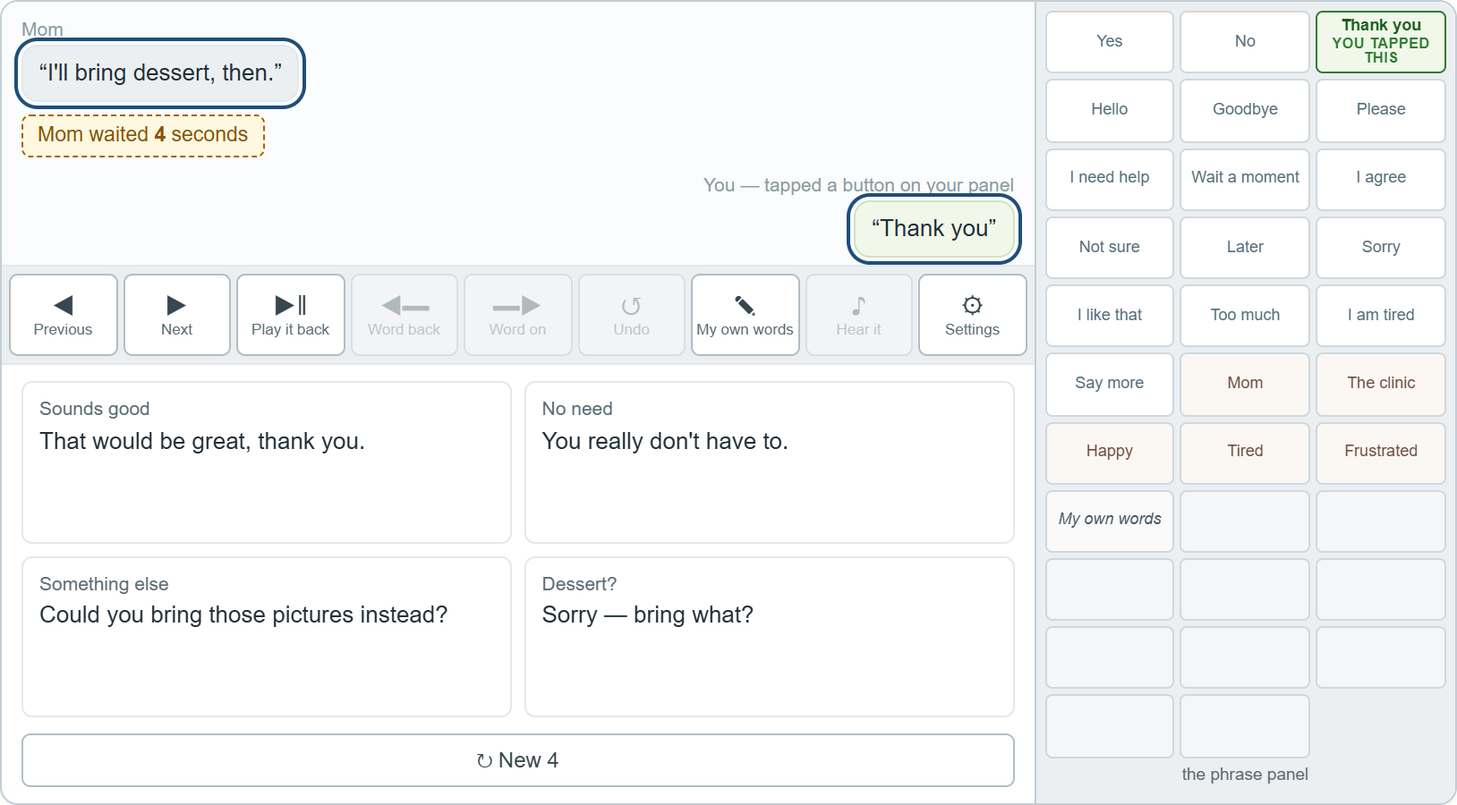
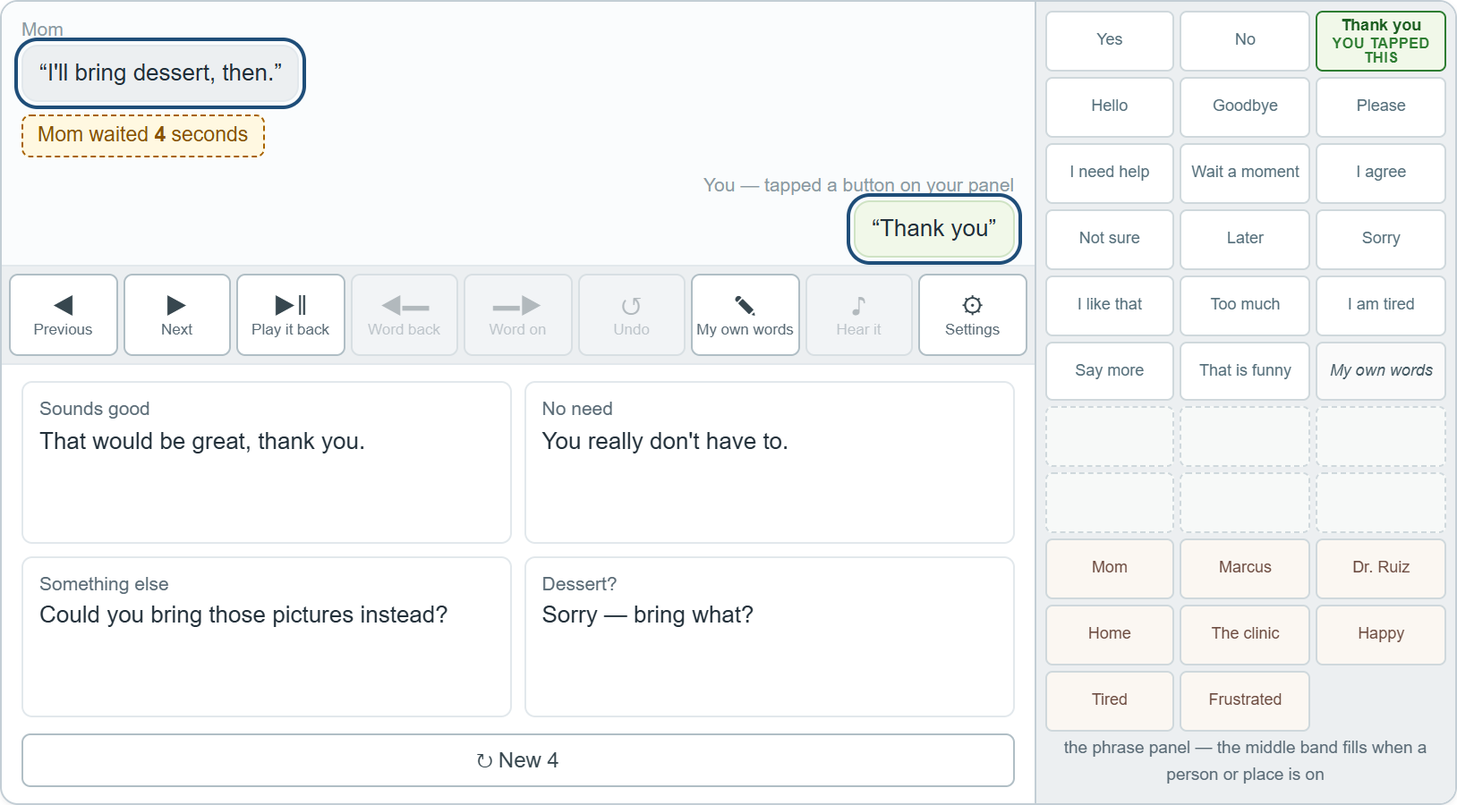
A context button can be half of an answer, not a mark of its own
I had written that marking "Tired" or "Mom" says only what the app should have
known, never what the user would have said. Ken: not if they then choose a
phrase or a sound from the Flex band after tapping it.

He is right, and it is not an extra case - it corrects the framing. The middle
band of the panel is EMPTY until a person or a place is switched on, and what
fills it is a function of which one. So marking "Mom" and then taking a phrase
out of that band is one answer in two steps: the phrase is on the panel only
because Mom is on. Recording the two as separate marks loses the thing that
connects them, and recording the phrase alone names a button that is not
normally there.

The prototype's panel now has the three real bands - Always, Flex, Context -
with the Flex band filled from the switched-on person and place, most specific
first, and its slots reserved so that switching one on cannot move a button. A
Flex answer stores what it depended on; switching that person or place back off
clears the answer rather than leaving it pointing at a vanished button. Recorded
sounds live in that band like any other entry and behave the same way.

An influencer mark on its own still means what it did.

Verified by driving it: six empty Flex slots at rest, four fill when Mom goes on
including the sound, the answer records both halves, switching Mom off clears it,
and all thirty-two cells are the same size throughout.
[…]

diff --git a/prototypes/conversation-review.html b/prototypes/conversation-review.html
@@ -254,6 +254,10 @@
   /* the influencer buttons read as a different kind of thing in the app, and must here */
   .dcell.ep-context{background:#FBF7F2;color:#6d4c41}
   .dcell.ep-compose{background:#FAFAFA;color:#455A64;font-style:italic}
+  .dcell.ep-flex{background:#F2F7F4;color:#2f5d46}
+  .dcell.ep-flex.empty-flex{background:#F7F9F8;border-style:dashed;color:#B0BEC5}
+  .dcell.ep-audio{font-style:italic}
+  .dcell.ep-audio::before{content:'♪ '}
   .dcell.ctx{background:#FFF3E0;border-color:var(--warn);color:#6b3d00;font-weight:bold;
              flex-direction:column;gap:1px}
   .ctxmk{font-size:7.5px;font-weight:bold;color:var(--warn);text-transform:uppercase;
@@ -874,32 +878,53 @@ function barHTML(st){
 
 /* The dock. The same three-column grid whichever is showing, which is the whole
    reason one keyguard covers both. */
-/* The panel holds three kinds of thing and they answer three different questions in
-   review, so the mock has to distinguish them rather than treating every cell as a
-   phrase (Ken, September 24 2026 - the panel has to be fully usable here).
-     phrase  - "I would rather have said this"
-     context - "I should have told it this first" (who I was with, where, how I felt).
-               These never speak, so several can be marked at once, and they are a
-               different answer from what the user would have SAID.
-     compose - "I would have typed it myself", the same as the command-strip button. */
-var EP_ITEMS = [
-  {t:'phrase', x:'Yes'},      {t:'phrase', x:'No'},        {t:'phrase', x:'Thank you'},
-  {t:'phrase', x:'Hello'},    {t:'phrase', x:'Goodbye'},   {t:'phrase', x:'Please'},
-  {t:'phrase', x:'I need help'}, {t:'phrase', x:'Wait a moment'}, {t:'phrase', x:'I agree'},
-  {t:'phrase', x:'Not sure'}, {t:'phrase', x:'Later'},     {t:'phrase', x:'Sorry'},
-  {t:'phrase', x:'I like that'}, {t:'phrase', x:'Too much'}, {t:'phrase', x:'I am tired'},
-  {t:'phrase', x:'Say more'},
-  {t:'context', k:'partner', x:'Mom'}, {t:'context', k:'place', x:'The clinic'},
-  {t:'context', k:'feeling', x:'Happy'}, {t:'context', k:'feeling', x:'Tired'},
-  {t:'context', k:'feeling', x:'Frustrated'},
-  {t:'compose', x:'My own words'}
+/* ---------------------------------------------------------------------------
+   THE PANEL HAS THREE BANDS, AND THE MIDDLE ONE IS A FUNCTION OF THE OTHERS.
+
+   ALWAYS  - never changes.
+   FLEX    - the phrases and sounds that suit this partner and this place. It is
+             EMPTY until a partner or a place is switched on, and its contents
+             change with them.
+   CONTEXT - the buttons that never speak: who I am with, where I am, how I feel.
+
+   ⚠ WHY THIS MATTERS IN REVIEW (Ken, September 24 2026). Marking a context
+   button was described as saying only "the app should have known this". That is
+   wrong whenever the user then takes a phrase or a sound out of the Flex band,
+   because THAT PHRASE ONLY EXISTS BECAUSE THE CONTEXT BUTTON IS ON. The two are
+   one answer in two steps - "I would have said I was with Mom, and then tapped
+   this" - and reporting them as separate marks loses the thing that connects
+   them. So a Flex answer records what had to be switched on to reach it.
+   --------------------------------------------------------------------------- */
+var EP_ALWAYS = ['Yes','No','Thank you','Hello','Goodbye','Please','I need help',
+                 'Wait a moment','I agree','Not sure','Later','Sorry','I like that',
+                 'Too much','I am tired','Say more','That is funny'];
+var EP_COMPOSE = 'My own words';
+var EP_CONTEXT = [
+  {k:'partner', x:'Mom'}, {k:'partner', x:'Marcus'}, {k:'partner', x:'Dr. Ruiz'},
+  {k:'place',   x:'Home'}, {k:'place',  x:'The clinic'},
+  {k:'feeling', x:'Happy'}, {k:'feeling', x:'Tired'}, {k:'feeling', x:'Frustrated'}
 ];
-/* `lit` is the phrase button a turn was spoken from. A user turn records where it came
-   from - a card, a panel button, the typing box, one of the command phrases - and if it
-   came from the panel there is NO card to mark, so the four on screen are the suggestions
-   that were ignored. Lighting the button is the only way to show what actually happened,
-   and it is the reason the panel is worth drawing in review at all. It is a mark, not a
-   control: tapping a phrase speaks it, and nothing in review may speak by accident. */
+/* what the Flex band fills with, most specific first, exactly as the app does */
+var EP_FLEX = {
+  'Mom':        [{x:'Say hi to Dad'}, {x:"My back's bad today"}, {x:'Love you'},
+                 {x:'our song', audio:true}],
+  'Marcus':     [{x:'Same time next week?'}, {x:'Your round'}],
+  'Dr. Ruiz':   [{x:"It's my back again"}, {x:'Can you write that down?'}],
+  'Home':       [{x:"I'll be in my room"}],
+  'The clinic': [{x:'Can you write that down?'}, {x:'I need to sit down'}]
+};
+var FLEX_SLOTS = 6;
+
+function flexFor(on){
+  var out = [], seen = {};
+  (on || []).forEach(function(label){
+    (EP_FLEX[label] || []).forEach(function(it){
+      if(!seen[it.x]){ seen[it.x] = 1; out.push(it); }
+    });
+  });
+  return out.slice(0, FLEX_SLOTS);
+}
+
 function dockHTML(kb, lit, want, live){
   var h = '<div class="dgrid">';
   if(kb){
@@ -908,28 +933,55 @@ function dockHTML(kb, lit, want, live){
     keys.forEach(function(k){
       h += '<div class="dcell key">' + esc(k === 'space' ? '␣' : k) + '</div>';
     });
-  } else {
-    for(var i=0;i<32;i++){
-      var it = EP_ITEMS[i];
-      if(!it){ h += '<div class="dcell dim"></div>'; continue; }
-      var t = it.x;
-      var used = !!(lit && t === lit);
-      var pref = !!(want && want.pick === t);
-      var ctx  = !!(want && want.ctx && want.ctx.indexOf(t) >= 0);
-      var tip  = it.t === 'context' ? 'tap if the app should have known this'
-               : it.t === 'compose' ? 'tap if you would rather have typed it yourself'
-                                    : 'tap if you would rather have said this';
-      h += '<div class="dcell ep-' + it.t + (used ? ' used' : '') + (pref ? ' want' : '')
-         + (ctx ? ' ctx' : '') + '"'
-         + (live ? ' data-cell="' + esc(t) + '" data-kind="' + it.t + '" title="' + tip + '"' : '')
-         + '>' + esc(t)
+    h += '</div><div class="dlab">the keyboard</div>';
+    return h;
+  }
+
+  want = want || {};
+  var on   = want.ctx || [];
+  var flex = flexFor(on);
+
+  function cell(t, kind, cls, extra){
+    var used = !!(lit && t === lit);
+    var pref = !!(want.pick === t);
+    var mark = !!(kind === 'context' && on.indexOf(t) >= 0);
+    return '<div class="dcell ' + cls + (used ? ' used' : '') + (pref ? ' want' : '')
+         + (mark ? ' ctx' : '') + '"'
+         + (live && t ? ' data-cell="' + esc(t) + '" data-kind="' + kind + '"'
+                      + ' title="' + esc(extra || '') + '"' : '')
+         + '>' + esc(t || '')
          + (used ? '<span class="usedmk">you tapped this</span>' : '')
          + (pref ? '<span class="wantmk">rather this</span>' : '')
-         + (ctx  ? '<span class="ctxmk">should have known</span>' : '')
+         + (mark ? '<span class="ctxmk">would have been on</span>' : '')
          + '</div>';
-    }
   }
-  h += '</div><div class="dlab">' + (kb ? 'the keyboard' : 'the phrase panel') + '</div>';
+
+  EP_ALWAYS.forEach(function(t){
+    h += cell(t, 'phrase', 'ep-always', 'tap if you would rather have said this');
+  });
+  h += cell(EP_COMPOSE, 'compose', 'ep-compose', 'tap if you would rather have typed it yourself');
+
+  /* THE FLEX BAND KEEPS ITS SLOTS WHETHER OR NOT ANYTHING FILLS THEM. It is empty
+     until a partner or a place is switched on - which is the point being shown - but
+     the cells have to stay where they are, or switching one on would move every
+     button below it. */
+  for(var f = 0; f < FLEX_SLOTS; f++){
+    var it = flex[f];
+    if(!it){ h += '<div class="dcell ep-flex empty-flex"></div>'; continue; }
+    h += cell(it.x, it.audio ? 'audio' : 'flexphrase', 'ep-flex' + (it.audio ? ' ep-audio' : ''),
+              it.audio ? 'tap if you would rather have played this'
+                       : 'tap if you would rather have said this');
+  }
+
+  EP_CONTEXT.forEach(function(c){
+    h += cell(c.x, 'context', 'ep-context', 'tap if you would have had this switched on');
+  });
+
+  h += '</div>'
+     + '<div class="dlab">the phrase panel'
+     + (on.length ? ' — the middle band is what &ldquo;' + esc(on.join('&rdquo; and &ldquo;'))
+                    + '&rdquo; puts there' : ' — the middle band fills when a person or place is on')
+     + '</div>';
   return h;
 }
 
@@ -1447,7 +1499,8 @@ function renderMoment(){
      several can be marked at once - exactly as several can be switched on in a real
      conversation. */
   function clearAnswer(){
-    V.preferPhrase = undefined; V.closer = -1; V.own = false; V.wantMore = false;
+    V.preferPhrase = undefined; V.preferAudio = undefined; V.preferNeeded = undefined;
+    V.closer = -1; V.own = false; V.wantMore = false;
     V.text = undefined; V.seed = undefined; ed = null;
   }
 
@@ -1459,12 +1512,27 @@ function renderMoment(){
         V.context = V.context || [];
         var at = V.context.indexOf(t);
         if(at >= 0) V.context.splice(at, 1); else V.context.push(t);
+        /* switching one off can empty the band the chosen phrase came out of, and an
+           answer pointing at a button that is no longer there means nothing */
+        if(V.preferNeeded){
+          var still = flexFor(V.context).some(function(it){ return it.x === V.preferPhrase; });
+          if(!still){ V.preferPhrase = undefined; V.preferAudio = undefined;
+                      V.preferNeeded = undefined; V.j = undefined; }
+        }
       } else if(kind === 'compose'){
         clearAnswer(); V.own = true; V.j = 'none'; V.text = ''; startEdit('card', -1, '');
       } else if(V.preferPhrase === t){
         clearAnswer(); V.j = undefined;
       } else {
-        clearAnswer(); V.preferPhrase = t; V.j = 'phrase';
+        var needed = (kind === 'flexphrase' || kind === 'audio') ? (V.context || []).slice() : null;
+        clearAnswer();
+        V.preferPhrase = t;
+        V.preferAudio = (kind === 'audio') || undefined;
+        /* WHAT HAD TO BE SWITCHED ON TO REACH IT. A Flex phrase only exists because a
+           person or a place is on, so the answer is the pair - recording the phrase
+           alone would name a button that is not on the panel by default. */
+        V.preferNeeded = (needed && needed.length) ? needed : undefined;
+        V.j = 'phrase';
       }
       saveVerdicts(); renderMoment();
     };
@@ -1520,12 +1588,21 @@ function renderMoment(){
           + '— it means none of these were close and you could not say what was missing. Nothing '
           + 'was generated: review marks what you would have done, it does not do it.</p>';
   }
-  if(V.context && V.context.length){
-    hint += '<p style="color:var(--warn)"><b>Noted:</b> the app should have known '
-          + esc(V.context.join(', ')) + '. That is about what it knew rather than what you would '
-          + 'have said, so it stands alongside whichever answer you gave.</p>';
+  if(V.context && V.context.length && !V.preferNeeded){
+    hint += '<p style="color:var(--warn)"><b>Noted:</b> you would have had '
+          + esc(V.context.join(', ')) + ' switched on. On its own that is about what the app '
+          + 'knew rather than what you would have said, so it stands alongside whichever answer '
+          + 'you gave.</p>';
   }
-  if(V.preferPhrase){
+  if(V.preferNeeded){
+    hint += '<p style="color:var(--init)"><b>Noted, and it is one answer in two steps:</b> you '
+          + 'would have switched on ' + esc(V.preferNeeded.join(' and ')) + ', and then '
+          + (V.preferAudio ? 'played “' : 'tapped “') + esc(V.preferPhrase) + '”. That '
+          + (V.preferAudio ? 'sound' : 'phrase') + ' is only on the panel because '
+          + esc(V.preferNeeded.join(' and ')) + ' is on, so the two are recorded together — the '
+          + 'phrase on its own would name a button that is not normally there.</p>';
+  }
+  if(V.preferPhrase && !V.preferNeeded){
     hint += '<p style="color:var(--init)"><b>Noted:</b> you would rather have tapped “'
           + esc(V.preferPhrase) + '”, a phrase you already have. That is worth knowing on its '
           + 'own — it says the suggestions crowded out something the user owns, and it tells the '
@@ -1661,11 +1738,13 @@ function gather(){
         bits.push(how + ': "' + v.text.trim() + '"');
       }
       if(v.preferPhrase){
-        bits.push('would rather have tapped the panel button "' + v.preferPhrase + '"');
+        bits.push('would rather have ' + (v.preferAudio ? 'played' : 'tapped') + ' the panel button "'
+          + v.preferPhrase + '"'
+          + (v.preferNeeded ? ' (which needs ' + v.preferNeeded.join(' and ') + ' switched on)' : ''));
       }
       if(v.wantMore) bits.push('would have asked for a different set of suggestions');
-      if(v.context && v.context.length){
-        bits.push('says the app should have known: ' + v.context.join(', '));
+      if(v.context && v.context.length && !v.preferNeeded){
+        bits.push('would have had these switched on: ' + v.context.join(', '));
       }
       if(v.misheard){
         bits.push('flagged a mishearing'

diff --git a/scripts/doc-generators/generate-review-doc.js b/scripts/doc-generators/generate-review-doc.js
@@ -273,10 +273,13 @@ const doc = new Document({
             ...figure('rv-fig3.png', 814, 450, "Figure 3 — A turn spoken from the user's own phrase panel. No card is marked, because none was used; the button they tapped is lit instead."),
             boldPara("That is the reason the phrase panel is worth drawing in review at all. ", "It is not there to make the screen look like the app. It is the only place that can show a turn that came from it — and it is also where one of the outcomes of review lands, since “put this phrase on my buttons” ends up there. It is a mark and not a control: tapping a phrase speaks it, and nothing in review may speak by accident."),
             boldPara("And the panel is fully usable here, not only a record (Ken, September 24 2026). ", "Tapping a phrase says “I would rather have said this” — the same answer as rewriting a card, at no typing cost at all, which makes it the cheapest useful thing on the screen. It is worth more than it looks: repeated across moments it says the suggestions are crowding out wording the user already owns, and it hands the AI a phrase it should be leaving room for. The panel's “in my own words” cell does what the command-strip button does."),
-            boldPara("The influencer buttons answer a different question, so they behave differently. ", "Marking “Tired” or “Mom” says what the app should have KNOWN, not what the user would have SAID. So several can be marked at once and they stand alongside whichever answer was given — exactly as several can be switched on during a real conversation."),
+            boldPara("The influencer buttons usually answer a different question. ", "Marking “Tired” or “Mom” normally says what the user would have had SWITCHED ON, which is about what the app knew rather than about what they would have said. So several can be marked at once and they stand alongside whichever answer was given — exactly as several can be switched on during a real conversation."),
+            boldPara("⚠ But not always, and the exception matters (Ken, September 24 2026). ", "The panel has three bands, and the middle one — the phrases and sounds that suit this partner and this place — is EMPTY until a person or a place is switched on. So if the user marks “Mom” and then takes a phrase out of that band, the two are not separate marks at all: the phrase is only on the panel BECAUSE Mom is on. It is one answer in two steps, and recording the phrase by itself would name a button that is not normally there."),
+            ...figure('rv-fig4.png', 814, 450, "Figure 4 — One answer in two steps. “Mom” switched on fills the middle band, and the phrase taken from it is recorded together with what had to be on to reach it."),
+            boldPara("So a phrase from that band is stored with what it depended on, ", "and switching that person or place back off clears the answer rather than leaving it pointing at a button that is no longer on the panel. The same holds for a recorded sound, which lives in that band like any other entry."),
             boldPara("“New 4” marks and does not generate (Ken, September 24 2026). ", "Pressing it in review says “I would have asked for a different set”, which is a real answer and a different one from naming something they would rather have said: it means none of the four were close and they could not name what was missing. Actually producing four new suggestions would spend money, invent a set that never existed, and leave the record showing something the conversation never contained."),
             ...figure('rv-fig4.png', 814, 450, "Figure 4 — The other ways of answering. “New 4” marked as what the user would have asked for, and an influencer marked as something the app should have known."),
-            boldPara("So there are five ways to say what they would have done instead, and exactly one may be chosen: ", "a card, a phrase from their panel, the typing box, “New 4”, or nothing at all. They answer the same question, so choosing one clears the others — otherwise a moment carries two contradictory answers and neither means anything. The influencer marks are not one of the five and sit alongside any of them."),
+            boldPara("So there are five ways to say what they would have done instead, and exactly one may be chosen: ", "a card, a phrase or sound from their panel, the typing box, “New 4”, or nothing at all. They answer the same question, so choosing one clears the others — otherwise a moment carries two contradictory answers and neither means anything. An influencer mark is not one of the five: on its own it stands alongside any of them, and where it unlocked the phrase that was chosen it is part of that answer rather than a mark of its own."),
             boldPara("⚠ Undo is a real undo, and the name is the reason (Ken, September 24 2026: if it is undo, call it undo). ", "It was called “put it back” and cleared everything said about the moment, which is fine after changing one word on a card and destructive after writing a sentence — one press and the sentence was gone. It now steps back one action at a time, so pressing it repeatedly still reaches an untouched moment and no single press can lose more than the last thing done. A snapshot is taken before each discrete action and once when an edit begins, never on every keystroke: undo has to step back a word, not a letter, or it stops being usable alongside the two word buttons."),
             boldPara("⚠ A mark on a button may not move the buttons. ", "The panel is a fixed grid, and it stays one here: the first attempt let the row holding the marked button grow to fit its label, which pushed every button below it down by seventeen pixels. That is a keyguard hole moving because a conversation was being looked at. Measured after the fix: all thirty-two cells are the same size whether a button is marked or not."),
             boldPara("⚠ This replaces the three-way question the earlier draft of this document described. ", "That draft asked “was any of these right?” with three buttons — yes, closest, none — and then offered a writing box. The buttons are gone, and nothing was lost: what a tap means is read from what the user does next. Leave the card alone and it was right. Tap a different one and that one would have suited them better. Change the words and here is how they would have put it. Press “my own words” and none of them were any use. Walk past without touching anything and nothing is recorded, which is what keeps skipping a moment different from approving it."),

diff --git a/scripts/doc-generators/capture-review-figures.js b/scripts/doc-generators/capture-review-figures.js
@@ -51,11 +51,13 @@ const PROTO = path.resolve(__dirname, '..', '..', 'prototypes', 'conversation-re
         await page.evaluate(() => { ed = null; verdicts = {}; momentAt = 4; renderMoment(); });
     });
 
-    // 4  the other ways of saying what they would have done instead
+    // 4  one answer in two steps - switch a person on, then take a phrase that only
+    //    exists because they are on
     await shot(4, '#moment', async () => {
+        const tap = t => page.evaluate(x => { document.querySelector('#moment [data-cell="' + x + '"]').click(); }, t);
         await page.evaluate(() => { ed = null; verdicts = {}; undoStacks = {}; momentAt = 1; renderMoment(); });
-        await page.evaluate(() => { document.querySelector('#moment [data-new]').click(); });
-        await page.evaluate(() => { document.querySelector('#moment [data-cell="Tired"]').click(); });
+        await tap('Mom');
+        await tap("My back's bad today");
     });
 
     // 5  a card being rewritten in place, with one word highlighted and the keyboard up

diff --git a/DOC-SYNC.md b/DOC-SYNC.md
@@ -213,7 +213,7 @@ June 15 2026 convention requires. They are the only two documents missing it.
 | Conversant AAC Conversation Engine Design.docx | ✓ current | 2026-08-24 | `6d5249a` | **Synced Aug 24 2026 for 0.8.0 (the Express Panel bands).** The Express Panel choice-chip paragraph corrected to the far end of the Context band, with a standing reservation of four. *Prior:* Caught up to v0.5.93–v0.5.98. Added §4.1 "Closed-Set Turns" (offered_options, CHOICE/CHOICE_OTHER/CHOICE_ASK/CHOICE_REPAIR, Express Panel choice chips, steering persistence, renderer pure-family note) with a Figure 3a worked example; added §5.3 "Two-Step Closing, Pagination, and Declining a Closing" (WIND_DOWN vs CLOSING, no-LLM paging, CLOSING_DECLINE/reopenFromClosing); updated the mode table's PRE-CLOSING/CLOSING row; added offered_options to the §9.2 schema; added two §9.3 obligations bullets (offer-vs-mention, CLOSING definition); updated the Phasing and Traceability tables. **RESIDUAL:** no new figure for the CHOICE-card flow (no image toolchain on this box) — Figures 1–6 untouched. |
 | Conversant AAC Conversation Engine Overview.docx | ✓ current | 2026-09-08 | `0072923` | **Synced Sep 8 2026 for 0.10.7.** The slot table gained a Promise row: an option that asks for a moment rather than answering, offered only where the user certainly has the answer, marked so the sequence stays open, and never placed first - a constraint enforced in the engine because prompt wording could not hold it. |
 | Conversant AAC Conversation Goals.docx | ✓ current | 2026-09-10 | `82d8de8` | **Corrected Sep 10 2026 for 0.11.1.** Two items came off "Still Open". Saving the goals in force with each turn shipped in 0.11.1, and §8.5 now says so. The limit on how many Flex positions goals may take was never a gap: Ken, *"priority buttons push non-priority buttons off of the end of bands. The flex priorities are: goals, dimension-specific phrases, then Always phrases."* §8.5 now states that order. Folded into the generator in the same pass. *Prior:* **NEW Sep 10 2026.** Ken went looking for a document on conversational goals and found only a CLAUDE.md section plus Section 7 of "Reframe: Academic Foundations" - so this is that document, written the day the goal layer shipped. It states the premise (all conversation is goal-directed, short and long horizon), says how well it is supported and where it needs qualifying, describes the three layers and the three sources, and gathers in one place what the app deliberately does NOT do and why. **It SUPERSEDES Reframe §7 as the current account** - that section is still right about the two theories and out of date about what was built, and its central recommendation (organize the controls by primary versus secondary goals) was considered and rejected. Section 7 of the new document is the table of divergences from the literature. Every citation was checked against a source in the writing rather than recalled. |
-| Conversant AAC Conversation Review.docx | ✓ current | 2026-09-24 | `5c07194` | **FIVE ANSWERS, A LIVE PANEL, AND A REAL UNDO (Ken, Sep 24 2026).** (1) **The phrase panel is fully usable in review, not only a record** - tapping a phrase says “I would rather have said this”, which is the same answer as rewriting a card at no typing cost, and repeated across moments says the suggestions are crowding out wording the user already owns. Its “in my own words” cell does what the command-strip button does. (2) **The influencer buttons answer a different question** - marking “Tired” says what the app should have KNOWN, not what the user would have SAID - so several can be marked at once and they stand alongside whichever answer was given. (3) **“New 4” marks and does not generate** (Ken): it means none of the four were close and the user could not name what was missing. Generating would spend money, invent a set that never existed, and leave the record showing something the conversation never contained. **So there are five mutually exclusive answers** - card, panel phrase, typing box, New 4, nothing - because two contradictory answers on one moment mean neither. (4) **“Put it back” became “Undo” and is now one** (Ken: if it is undo, call it undo). It used to clear everything said about a moment, which is fine after changing a word and destructive after writing a sentence; it steps back one action at a time now, snapshotting before each discrete action and once when an edit begins - never per keystroke, or it could not step back a word. Figures renumbered to eight with a new Figure 4. *Prior:* **A turn does not always come from a card, and the screen now says which (Ken, Sep 24 2026, asking whether an Express Panel choice would be highlighted - it was not, and the record has carried `source` all along).** If somebody answered by tapping a phrase on their own panel, the four cards on screen are the ones they IGNORED, so marking none of them says nothing about what they did - and reads as a card selection nobody recorded. The line in the pane now names where the turn came from and the button is shown lit in the panel. **That is also the answer to why the phrase panel is drawn in review at all** (Ken asked): it is the only place a panel turn can be shown, and it is where “put this phrase on my buttons” lands. It is a mark, never a control - tapping a phrase speaks it. **⚠ The first attempt let the marked button's row grow to fit its label and pushed every button below it down 17px** - a keyguard hole moving because somebody looked at a conversation; the panel grid is now equal-rowed and all 32 cells measure the same marked or not. Sample conversation gained a seventh moment for it, new Figure 3, figures renumbered to seven. Also fixed: Figure 1 had been embedded at the wrong aspect ratio since the rebuild. *Prior:* **SECOND EDITION, Sep 24 2026 - it replaces the first and says so on page one.** Building the prototype and working through it with Ken moved four things, and each reversal is marked in the text rather than quietly rewritten. (1) **Review reuses the conversation screen** instead of having a layout of its own - new Section 6 - because a differently-arranged review screen would need a second keyguard nobody will cut and swap. Settings keeps its usual last position and is how you leave, exactly as it is how a practice session is left (Ken); there is no back button and no Done, since edits are kept as they are made. (2) **A card is rewritten in place** and the separate writing box is gone - the box was always a copy of the card, and this layout has nowhere to put one. The three-way question went with it: what a tap means is read from what the user does next. New 7.3 carries the editing model - one highlighted word IS the cursor, two command-strip buttons move it, backspace empties it and leaves the gap, so three words is three presses. The buttons cannot live on the keyboard: its rows start at the top of the panel so one keyguard covers it and the phrase buttons. (3) **Two of the three ways through turned out to be one screen** - the whole conversation sits in the pane with the current exchange outlined, so stepping and scrolling are the same thing and only playback is separate work. Section 8 rewritten, and Question 1 now asks whether playback is worth building. (4) **Rehearsals are reviewable and are marked in the list** - arguably the better case, since a scenario can be run again; Section 10 extended. Two differences: no microphone, so nothing can have been misheard; and a fact written there **is asked about rather than assumed** (Ken - “is that true about you, or did you make it up for the practice?”), which is better than my blanket rule of never offering it. Also new: telling the app it wrote down the wrong words is now the **second tap on the other person's own line** (one tap to arrive, a second to correct), which is what freed the ninth command-strip slot for Settings. **⚠ THE FIGURES ARE NOW CAPTURED FROM THE PROTOTYPE** (six of them) and the hand-drawn “Review Figures.html” is deleted - within a day of the prototype changing it was illustrating a design that no longer existed, which is the two-copies trap in a new place. Regenerating still needs the post-processing chain in the generator header and FORCE_DOC_WRITE=1. *Prior:* **Figures redrawn Sep 23 2026, same day.** Ken: the app does not support telephone calls, and the sample conversation read as one. Rebuilding it face to face exposed a worse fault it had been hiding: Mom offered to drive up to the user, while the document's flagship example of what the user would rather have said is "I'd rather you came here" - which is what she had just offered. She now asks the user to come to THEM, so the example is coherent. Prose unchanged; only the figures carried the scenario. *Prior:* **NEW Sep 23 2026.** The first of four steps Ken set out for the conversation-review feature: this document, then a UI prototype for the speech and language therapists to comment on, then an architecture and interface design document, then the build. **Nothing it describes is built**, and it says so on the first page. It carries the purpose (review is the only time the user can think about their communication with nobody waiting), what the record already holds, the way in through a Review tab in Settings, the moment screen, real-time playback, where what the user says ends up, the practice case, privacy, and seven open questions aimed at the therapists. Four figures from "Review Figures.html" via capture-review-figures.js. **Three positions of mine that Ken reversed are carried in the text with their reasoning, not quietly absorbed:** grading is per considered card and never per set (the four are different kinds of reply, so scoring all four rates cards nobody looked at); real-time playback is worth building because a silence cannot be felt by reading; and "the app must never grade the user" was too absolute - a remark about the exchange is legitimate and is offered in practice, a verdict on the person never is. Regenerating needs the post-processing chain in the generator header (drawing ids, table style, paragraph spacing) and FORCE_DOC_WRITE=1, since those rewrites move the manifest hash. |
+| Conversant AAC Conversation Review.docx | ✓ current | 2026-09-24 | `110d277` | **AN INFLUENCER MARK IS SOMETIMES PART OF THE ANSWER, NOT A MARK OF ITS OWN (Ken, Sep 24 2026).** I had written that marking “Tired” or “Mom” says only what the app should have KNOWN, never what the user would have SAID. **That is wrong whenever they then take a phrase or a recorded sound out of the Flex band, because that entry only exists BECAUSE the person or place is switched on.** It is one answer in two steps, and storing the phrase alone would name a button that is not normally on the panel. The prototype's panel now has the three real bands - Always, Flex (empty until a person or place is on, and filled from them most-specific-first), Context - a Flex answer records what it depended on, and switching that off clears the answer rather than leaving it pointing at a vanished button. An influencer mark ALONE still means what it did. New Figure 4 shows the two-step case; the New 4 example lost its figure and is described instead. *Prior:* **FIVE ANSWERS, A LIVE PANEL, AND A REAL UNDO (Ken, Sep 24 2026).** (1) **The phrase panel is fully usable in review, not only a record** - tapping a phrase says “I would rather have said this”, which is the same answer as rewriting a card at no typing cost, and repeated across moments says the suggestions are crowding out wording the user already owns. Its “in my own words” cell does what the command-strip button does. (2) **The influencer buttons answer a different question** - marking “Tired” says what the app should have KNOWN, not what the user would have SAID - so several can be marked at once and they stand alongside whichever answer was given. (3) **“New 4” marks and does not generate** (Ken): it means none of the four were close and the user could not name what was missing. Generating would spend money, invent a set that never existed, and leave the record showing something the conversation never contained. **So there are five mutually exclusive answers** - card, panel phrase, typing box, New 4, nothing - because two contradictory answers on one moment mean neither. (4) **“Put it back” became “Undo” and is now one** (Ken: if it is undo, call it undo). It used to clear everything said about a moment, which is fine after changing a word and destructive after writing a sentence; it steps back one action at a time now, snapshotting before each discrete action and once when an edit begins - never per keystroke, or it could not step back a word. Figures renumbered to eight with a new Figure 4. *Prior:* **A turn does not always come from a card, and the screen now says which (Ken, Sep 24 2026, asking whether an Express Panel choice would be highlighted - it was not, and the record has carried `source` all along).** If somebody answered by tapping a phrase on their own panel, the four cards on screen are the ones they IGNORED, so marking none of them says nothing about what they did - and reads as a card selection nobody recorded. The line in the pane now names where the turn came from and the button is shown lit in the panel. **That is also the answer to why the phrase panel is drawn in review at all** (Ken asked): it is the only place a panel turn can be shown, and it is where “put this phrase on my buttons” lands. It is a mark, never a control - tapping a phrase speaks it. **⚠ The first attempt let the marked button's row grow to fit its label and pushed every button below it down 17px** - a keyguard hole moving because somebody looked at a conversation; the panel grid is now equal-rowed and all 32 cells measure the same marked or not. Sample conversation gained a seventh moment for it, new Figure 3, figures renumbered to seven. Also fixed: Figure 1 had been embedded at the wrong aspect ratio since the rebuild. *Prior:* **SECOND EDITION, Sep 24 2026 - it replaces the first and says so on page one.** Building the prototype and working through it with Ken moved four things, and each reversal is marked in the text rather than quietly rewritten. (1) **Review reuses the conversation screen** instead of having a layout of its own - new Section 6 - because a differently-arranged review screen would need a second keyguard nobody will cut and swap. Settings keeps its usual last position and is how you leave, exactly as it is how a practice session is left (Ken); there is no back button and no Done, since edits are kept as they are made. (2) **A card is rewritten in place** and the separate writing box is gone - the box was always a copy of the card, and this layout has nowhere to put one. The three-way question went with it: what a tap means is read from what the user does next. New 7.3 carries the editing model - one highlighted word IS the cursor, two command-strip buttons move it, backspace empties it and leaves the gap, so three words is three presses. The buttons cannot live on the keyboard: its rows start at the top of the panel so one keyguard covers it and the phrase buttons. (3) **Two of the three ways through turned out to be one screen** - the whole conversation sits in the pane with the current exchange outlined, so stepping and scrolling are the same thing and only playback is separate work. Section 8 rewritten, and Question 1 now asks whether playback is worth building. (4) **Rehearsals are reviewable and are marked in the list** - arguably the better case, since a scenario can be run again; Section 10 extended. Two differences: no microphone, so nothing can have been misheard; and a fact written there **is asked about rather than assumed** (Ken - “is that true about you, or did you make it up for the practice?”), which is better than my blanket rule of never offering it. Also new: telling the app it wrote down the wrong words is now the **second tap on the other person's own line** (one tap to arrive, a second to correct), which is what freed the ninth command-strip slot for Settings. **⚠ THE FIGURES ARE NOW CAPTURED FROM THE PROTOTYPE** (six of them) and the hand-drawn “Review Figures.html” is deleted - within a day of the prototype changing it was illustrating a design that no longer existed, which is the two-copies trap in a new place. Regenerating still needs the post-processing chain in the generator header and FORCE_DOC_WRITE=1. *Prior:* **Figures redrawn Sep 23 2026, same day.** Ken: the app does not support telephone calls, and the sample conversation read as one. Rebuilding it face to face exposed a worse fault it had been hiding: Mom offered to drive up to the user, while the document's flagship example of what the user would rather have said is "I'd rather you came here" - which is what she had just offered. She now asks the user to come to THEM, so the example is coherent. Prose unchanged; only the figures carried the scenario. *Prior:* **NEW Sep 23 2026.** The first of four steps Ken set out for the conversation-review feature: this document, then a UI prototype for the speech and language therapists to comment on, then an architecture and interface design document, then the build. **Nothing it describes is built**, and it says so on the first page. It carries the purpose (review is the only time the user can think about their communication with nobody waiting), what the record already holds, the way in through a Review tab in Settings, the moment screen, real-time playback, where what the user says ends up, the practice case, privacy, and seven open questions aimed at the therapists. Four figures from "Review Figures.html" via capture-review-figures.js. **Three positions of mine that Ken reversed are carried in the text with their reasoning, not quietly absorbed:** grading is per considered card and never per set (the four are different kinds of reply, so scoring all four rates cards nobody looked at); real-time playback is worth building because a silence cannot be felt by reading; and "the app must never grade the user" was too absolute - a remark about the exchange is legitimate and is offered in practice, a verdict on the person never is. Regenerating needs the post-processing chain in the generator header (drawing ids, table style, paragraph spacing) and FORCE_DOC_WRITE=1, since those rewrites move the manifest hash. |
 | Conversant AAC Express Panel Design.docx | ✓ current | 2026-09-14 | `db5f1e1` | **Synced Sep 14 2026 for 0.12.0 - the overflow rule it recorded was REPLACED.** Every place the document said surplus Always phrases queue at the end of the Flex band now says each band pages its own overflow with a More button: the band table's Always and Flex cells, the folders table ("the Flex band, plus an honest cap" became "a More button in the band itself"), the Growing-the-Context-band and ordering paragraphs, section 9's rule, and the closing summary. **Section 9's argument against paging is kept and answered rather than deleted**: it now says Ken chose paging anyway and how the design meets the objection (the button looks different, stays put, reads Close, and any other tap puts the panel back). The "no folders, no pages" section is marked partly superseded, with folders still ruled out. A paragraph records sound buttons and why playback mutes the microphone. *Prior:* **Synced Sep 10 2026 for 0.11.0.** Not a top-up: one sentence in it had become FALSE. §5.1 said *"The dividing line is speaking against influencing"* and *"Every other button on the panel speaks"* — and a goal button never speaks and lives in the Flex band. **Ken corrected the underlying rule the same day: what puts a button in a band is how its content is DETERMINED, not whether it speaks** (*"Goals are context dependent and therefore can't go in the context band... This is the typical behavior of the flex band"*), so the bold lead-in and that sentence are replaced with the rule as it actually stands — Always never changes, Context is where the user SUPPLIES the dimensions, Flex holds whatever is a function of them — with the goal button as the case that makes the difference plain. **And his second correction is kept because it inverts the safety argument this document had been making:** a button that cannot speak fails a mis-hit in the SAFE direction, so "it does not speak" is never a reason to move one out of a speaking band; the real exposure is adjacency, answered by grouping. The Flex band's table cell now leads with goals. **Edited with sub_in_run, not replaced** — that paragraph carries a bold lead-in sentence and a wholesale replacement would have collapsed the runs and lost it. |
 | Conversant AAC Configuration Model.docx | ✓ current | 2026-07-27 | `09a51ae` | **Silence period explained properly (Ken, Aug 9 2026): *“Ensure that the User Manuals (and maybe other documents) fully/properly explain what the Silence period parameter controls/represents.”*** Three defects, not one. The stated **default was 2 seconds** (it has been **0.5** since Aug 7 2026) and the **range 0.5–3.0** (a **0** option was added Aug 9), so both figures were wrong everywhere they appeared. And nothing said what the setting *represents*: the pause is a **checkpoint, not a stop** — recording continues, the partner’s turn ends when the **user answers**, and nothing is ever spoken unprompted, which is exactly what makes a short setting safe. That omission mattered because the natural reading of the old wording (“sends the partner’s speech to the AI”) is that a short setting risks cutting someone off, when the real cost is **discarded AI requests, i.e. money**. Settings-registry row rewritten: name **TRP silence threshold → Silence period**, default **1.5 s → 0.5 s**, range **0.5–3.0 → 0–3.0**, and the “why experiment” column re-pointed at the real trade-off, since its false-TRP framing predates the July 10 2026 reversal. Content is current; **At commit restamps at the next release push.** *Prior pass:* Synced for v0.5.93–v0.5.98: Build Status tab list corrected to ten tabs (added Practice, fixed ordering to match the shipped app); content-sets bullet notes the wind-down/closings split (v0.5.93); added two concrete registry-table rows — "Listening chime" (§4.1) and "Choice buttons in Express Panel" (§4.2) — each dated and explained as post-this-document additions, consistent with the doc's existing "Build Status" framing. Named settings profiles (v0.5.83) already covered from the prior sync. |
 | Conversant AAC UI-Design.docx | ✓ current | 2026-09-09 | `6e62eab` | **Synced Sep 9 2026 for 0.10.14.** Section 13 gained the two control types 0.10.14 introduced and it had no standard for: an UNINTERRUPTIBLE PROGRESS card (no buttons, Escape and backdrop dead, and it must COUNT rather than say "please wait" - a card that never changes is indistinguishable from a crash on a slow device, which is what made a user press the button again and lose the import) and a FORCED ACKNOWLEDGMENT card (one button, no way past it, never red). Without them the next blocking dialog has nothing to follow, which is what section 13 exists to prevent. *Prior:* **Restamped Sep 9 2026.** The stamp said `c93b349`, which is EARLIER than the commit that added the work the note describes - the row was edited inside `ff390a3` itself, so it could not name its own commit. Verified in the document rather than assumed: section 13 "Control Standards" is present, and so is the color rule ("in the panels, color means danger or state, never emphasis"). Advanced to the 0.10.12 release commit, which is where both landed. **Color rule added Sep 8 2026 (Ken).** In the panels, color means DANGER or STATE and never emphasis - the five button colors that had grown across Settings and About Me read as inconsistency rather than hierarchy, and nothing in a settings panel is more primary than the button beside it. The conversation surface keeps its accent fill, where a primary action genuinely exists. **Section 13 completed and ENFORCED Sep 8 2026.** Two rows were missing the standards they were written for - a Settings button now records its one appearance (a soft-gray fill, real border, small radius, taken by any button that declares nothing) and a text field records that it takes the same minimum height as a button. Section 13 now ends by naming tests/ui-standards.test.mjs, which measures the running app against it: writing the standards down was never the answer, since every one of them was already decided when the panel drifted. **Amended again Sep 8 2026:** every "Test this voice" / "Test partner voice" button is now just "Test" (Ken), so section 13 says so - and says the one thing that makes a shared label safe, that these two are told apart by WHERE THEY SIT rather than by their words. **Added Section 13 "Control Standards" Sep 8 2026 (Ken).** A catalogue of the sixteen control types and, for each, its face, its size, its behavior and what it must never do - plus the two questions that decide any control: is its face a FIXED function or CONTENT, and is it on the conversation surface or a supporter-assisted overlay. Nothing here is new policy; every entry was already settled, one at a time and months apart, and the section exists because a standard that cannot be looked up drifts - which it had. The old Section 13 is renumbered 14. **Amended Sep 5 2026 for 0.10.3.** The 20 mm touch-target passage said the physical-size goal became a user-scalable "Button size" setting. That slider is gone; the passage now says the borders between the screen areas are dragged directly, which grows the targets in the region enlarged and takes the room from the transcript. *Prior:* Synced for v0.5.93–v0.5.98: added a Build Status bullet + in-place §4/§12/§13 coverage of the new CHOICE-card family and Express Panel choice chips (framed as a deliberate, geometry-only exception to Rule 1 — cell count/position/size stay fixed, only cell content changes); added a "Static palettes" note (§13) covering openers/wind-downs/closings pagination via "New N" / re-pressing Wind down and the pinned "Actually, before you go —" decline-closing card; added the listening chime + pulsing Listen button (§3.3/§13/Rule 6), including the v0.5.98 once-per-conversation-with-auto-resume refinement. Not touched: pre-start screen sequencing and the API-key prompt (out of this doc's scope) and Practice Mode's Settings tab (Settings navigation isn't described here). Figures untouched (no image toolchain). |
